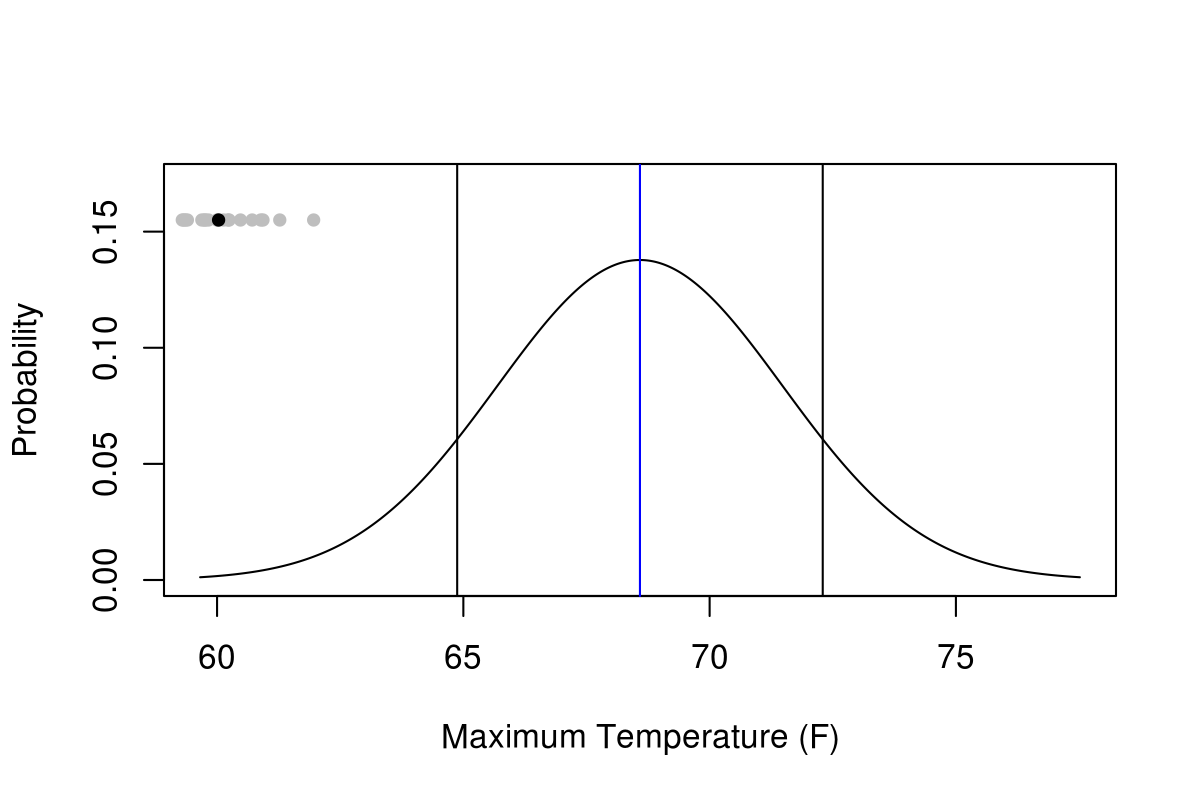
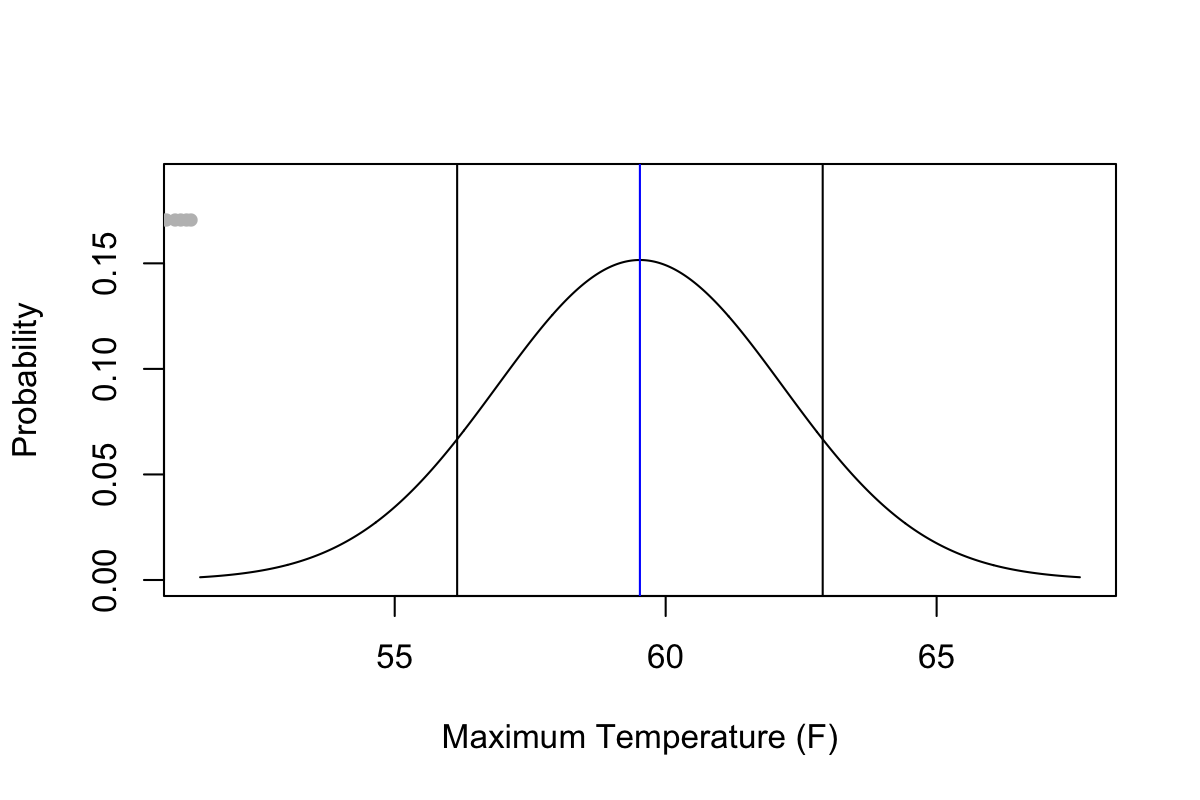
updated wxchallenge.md

diff --git a/wxchallenge.md b/wxchallenge.md
@@ -11,11 +11,11 @@ This page provides some tools I use to help me in the [WxChallenge](http://www.w
 * [SREF Plume Viewer](http://www.spc.noaa.gov/exper/sref/srefplumes/)
 * [WxChallenge WxData](http://www.wxchallenge.com/tools/weatherdata.php)
 
-## Calibrated PDFs for KRNO for Tuesday, November 8
+## Calibrated PDFs for KRNO for Wednesday, November 16
 
 For information on Bayesian Model Averaging (BMA), scroll to the [bottom of this page](#bma). Click on each image to enlarge it.
 
-> Plots updated 2016-11-07 15:31 GMT
+> Plots updated 2016-11-15 18:12 GMT
 
 <p align="center"><strong>Maximum Temperature</strong></p>
 [<img src="tmax.png" width="700"/>](tmax.png)
